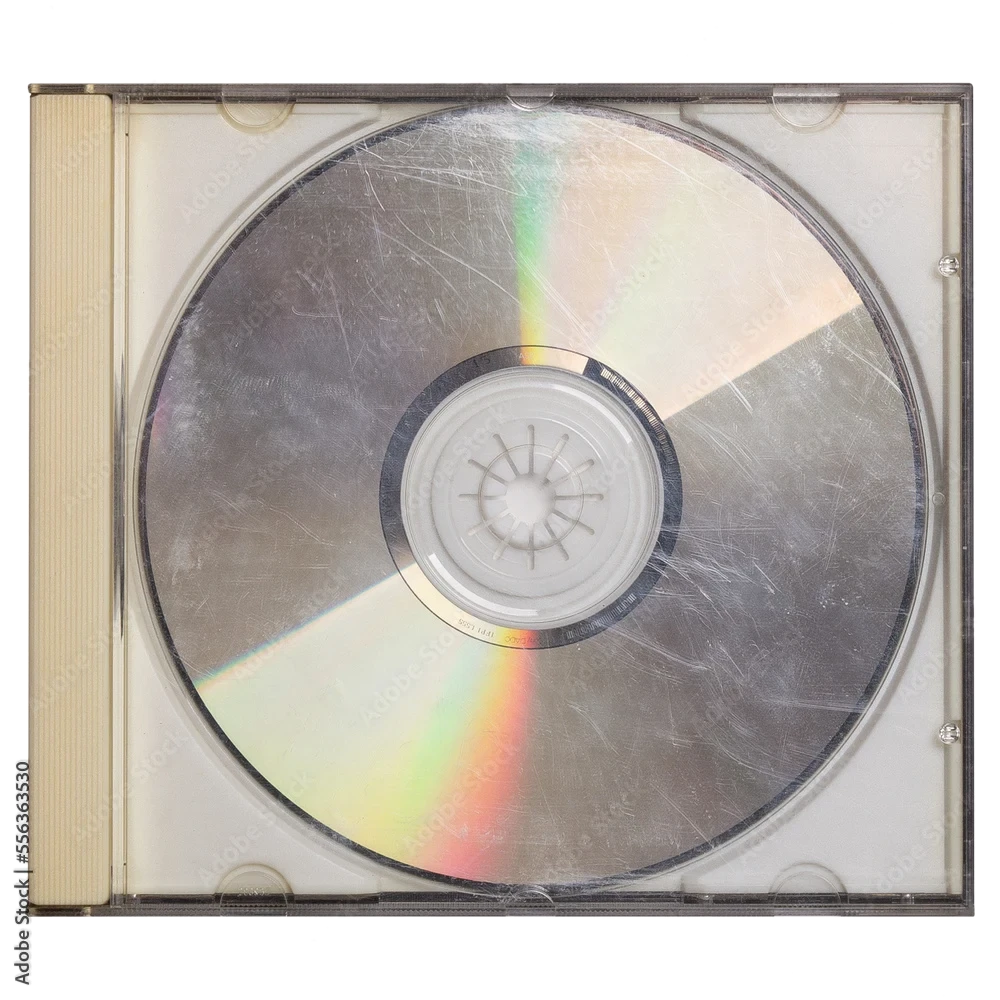
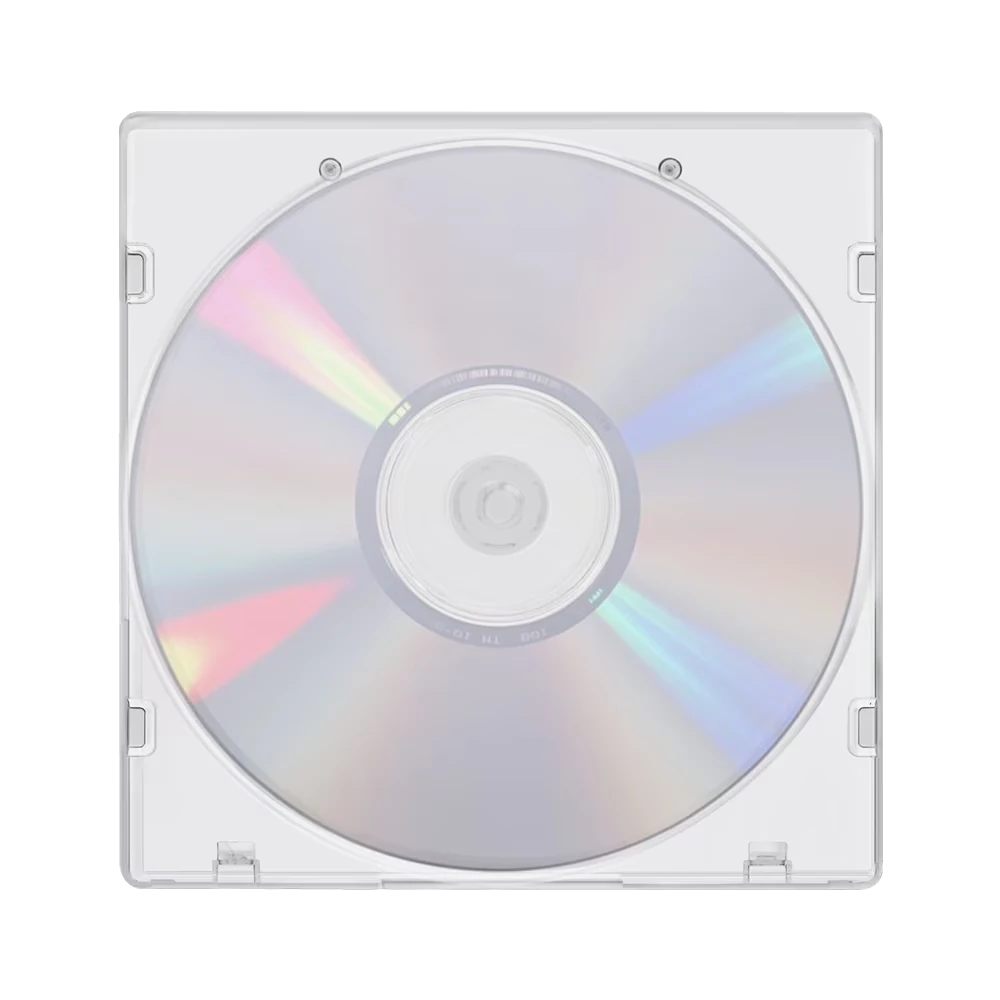
CD CASE design uses a new clean CD photo (no stock watermark), cover aligned to its disc

diff --git a/packphoto.js b/packphoto.js
@@ -5,7 +5,7 @@
 'use strict';
 const RED='#e0242f',F="Anton, Impact, 'Arial Narrow Bold', sans-serif",B="Inter, 'Helvetica Neue', Arial, sans-serif";
 const A={},files=['box','cd','vinyl','tape1','tape2','sd','mpc','daw','clips','arrow'];let boot=null;
-function load(){return boot=boot||Promise.all(files.map(n=>new Promise(r=>{const i=new Image();i.onload=()=>{A[n]=i;r()};i.onerror=()=>r();i.src=new URL('mpc/pk/'+n+'.webp',document.baseURI).href})))}
+function load(){return boot=boot||Promise.all(files.map(n=>new Promise(r=>{const i=new Image();i.onload=()=>{A[n]=i;r()};i.onerror=()=>r();i.src=new URL('mpc/pk/'+n+'.webp?v=2',document.baseURI).href})))}
 const cvs=(w,h,fn)=>{const c=document.createElement('canvas');c.width=w;c.height=h;if(fn)fn(c.getContext('2d'),w,h);return c};
 function sq(img){const iw=img.naturalWidth||img.width,ih=img.naturalHeight||img.height,m=Math.min(iw,ih);return[(iw-m)/2,(ih-m)/2,m]}
 /* ---------- perspective warp: homography from the unit square onto a quad, drawn as many small affine triangles ---------- */
@@ -56,7 +56,7 @@ const T=[
   x.save();x.globalCompositeOperation='screen';const gl=x.createLinearGradient(m([243,22])[0],m([243,22])[1],m([553,640])[0],m([553,640])[1]);gl.addColorStop(0,'rgba(255,255,255,.22)');gl.addColorStop(.35,'rgba(255,255,255,0)');x.fillStyle=gl;x.beginPath();[[243,22],[553,72],[553,640],[243,693]].map(m).forEach((p,i)=>i?x.lineTo(...p):x.moveTo(...p));x.fill();x.restore();
   x.fillStyle='#07080a';const yb=m([0,700])[1];x.fillRect(0,yb,W,H-yb);arrow(x,650*k,330*k,230*k,-2.0);title(x,W,H,k,X.name,{bottom:70*k,w:640*k,size:130*k,maxH:H*.36})}},
  {n:'CD CASE',f(x,W,H,k,X){bgCover(x,W,H,k,X,.5);glow(x,920*k,360*k,420*k,.5);const s=.62*k,m=put(x,A.cd,610*k,50*k,s,{shadow:'rgba(0,0,0,.8)',blur:50*k});
-  const c=m([530,495]),r=395*s,h=150*s;x.save();x.beginPath();x.arc(c[0],c[1],r,0,6.283);x.arc(c[0],c[1],h,0,6.283,true);x.clip();x.drawImage(coverSq(X,900),c[0]-r,c[1]-r,r*2,r*2);x.restore();
+  const c=m([493,503]),r=357*s,h=142*s;x.save();x.beginPath();x.arc(c[0],c[1],r,0,6.283);x.arc(c[0],c[1],h,0,6.283,true);x.clip();x.drawImage(coverSq(X,900),c[0]-r,c[1]-r,r*2,r*2);x.restore();
   x.save();x.globalCompositeOperation='screen';x.globalAlpha=.45;x.drawImage(A.cd,610*k,50*k,A.cd.width*s,A.cd.height*s);x.restore();title(x,W,H,k,X.name,{w:540*k})}},
  {n:'VINYL',f(x,W,H,k,X){const g=x.createRadialGradient(W*.6,H*.55,0,W*.6,H*.55,W*.7);g.addColorStop(0,'#3b2a20');g.addColorStop(1,'#0b0806');x.fillStyle=g;x.fillRect(0,0,W,H);
   const S=440*k,sx=560*k,sy=200*k,vs=S*1.02/350;x.save();x.shadowColor='rgba(0,0,0,.7)';x.shadowBlur=30*k;x.drawImage(A.vinyl,sx+S*.42,sy+S/2-175*vs,350*vs,350*vs);x.restore();

diff --git a/studio.js b/studio.js
@@ -708,7 +708,7 @@ const TH={seed:0,pf:'16:9',ord:null,page:0,sel:[],rr:{}},TH_N=6,THMODAL=`<div id
  <div id="thGrid"></div><div class="msg" id="thMsg">40 looks, 6 at a time. The type line follows SOUNDS LIKE (artist). Every card downloads in 16:9 (1280x720) and 9:16 (1080x1920).</div>
  <button class="btn" id="thAll" style="display:none;margin-top:8px">DOWNLOAD THIS SET (12 FILES)</button>
 </div></div>`;
-function thLoad(){return window.MZThumbs?window.MZThumbs.load():new Promise((ok,no)=>{const sc=document.createElement('script');sc.src=new URL('thumbs.js?v=18',document.baseURI).href;sc.onload=()=>window.MZThumbs.load().then(ok,no);sc.onerror=()=>no(new Error('thumbs.js'));document.head.appendChild(sc)})}
+function thLoad(){return window.MZThumbs?window.MZThumbs.load():new Promise((ok,no)=>{const sc=document.createElement('script');sc.src=new URL('thumbs.js?v=19',document.baseURI).href;sc.onload=()=>window.MZThumbs.load().then(ok,no);sc.onerror=()=>no(new Error('thumbs.js'));document.head.appendChild(sc)})}
 /* the type line (ARTIST TYPE BEAT) comes from the same SOUNDS LIKE / MOOD boxes the YouTube text uses */
 function thCtx(i){const it=S.item||{},Y=S.item?ytCtx():{};return{title:it.title||'',w:window.MZThumbs.words(S.tx.title.text||it.title),cover:S.cover,bpm:it.bpm,key:it.musical_key,kind:S.kind==='samples'?'packs':S.kind,label:S.kind==='samples'?'SINGLE SAMPLE':'',seed:TH.seed+(TH.rr[i]||0)*13,art:Y.art||'',mood:Y.mood||'',genre:Y.genre||''}}
 const thSize=f=>f==='16:9'?[1280,720]:[1080,1920];

diff --git a/index.html b/index.html
@@ -1478,7 +1478,7 @@ const FIELDS={
  packs:{table:'packs',title:'SAMPLE PACK',files:[['cover_path','PACK IMAGE','image/*','public-media','covers'],['preview_path','PREVIEW AUDIO (optional, public)','audio/*','private-files','previews'],['file_path','PACK FILE (.zip, private, any size)','.zip,application/zip,audio/*','private-files','packs']]}
 };
 function loadScript(f){return new Promise((ok,no)=>{const s=document.createElement('script');s.src=BASEPATH+f;s.onload=ok;s.onerror=no;document.head.appendChild(s)})}
-function loadStudio(){return window.studioOpen?Promise.resolve():new Promise((ok,no)=>{const s=document.createElement('script');s.src=BASEPATH+'studio.js?v=44';s.onload=ok;s.onerror=no;document.head.appendChild(s)})}
+function loadStudio(){return window.studioOpen?Promise.resolve():new Promise((ok,no)=>{const s=document.createElement('script');s.src=BASEPATH+'studio.js?v=45';s.onload=ok;s.onerror=no;document.head.appendChild(s)})}
 async function boRender(){
  {const pb=document.getElementById('pbkBar');if(pb)pb.style.display=tab==='packs'?'block':'none'}
  const vid=tab==='video';document.querySelector('#bo .bo2').style.display=vid?'none':'';

diff --git a/thumbs.js b/thumbs.js
@@ -9,7 +9,7 @@ const SRC={x:520,y:0,w:620,h:468};
 function load(){
  if(ready)return ready;
  ready=(async()=>{
-  if(!window.MZPackPhoto)await new Promise(res=>{const sc=document.createElement('script');sc.src=new URL('packphoto.js?v=7',document.baseURI).href;sc.onload=()=>window.MZPackPhoto.load().then(res,res);sc.onerror=res;document.head.appendChild(sc)});
+  if(!window.MZPackPhoto)await new Promise(res=>{const sc=document.createElement('script');sc.src=new URL('packphoto.js?v=8',document.baseURI).href;sc.onload=()=>window.MZPackPhoto.load().then(res,res);sc.onerror=res;document.head.appendChild(sc)});
   if(!document.querySelector('link[data-th]')){await new Promise(res=>{const l=document.createElement('link');l.rel='stylesheet';l.href=FONT_LINK;l.dataset.th='1';l.onload=res;l.onerror=res;document.head.appendChild(l);setTimeout(res,5000)})}
   await Promise.all(["40px Anton","40px 'Bebas Neue'","600 40px Oswald","12px 'Press Start 2P'","40px 'Permanent Marker'","40px Bangers"].map(f=>document.fonts.load(f).catch(()=>{})));
   hero=new Image();hero.src=new URL('hero.jpg',document.baseURI).href;try{await hero.decode()}catch(e){}
